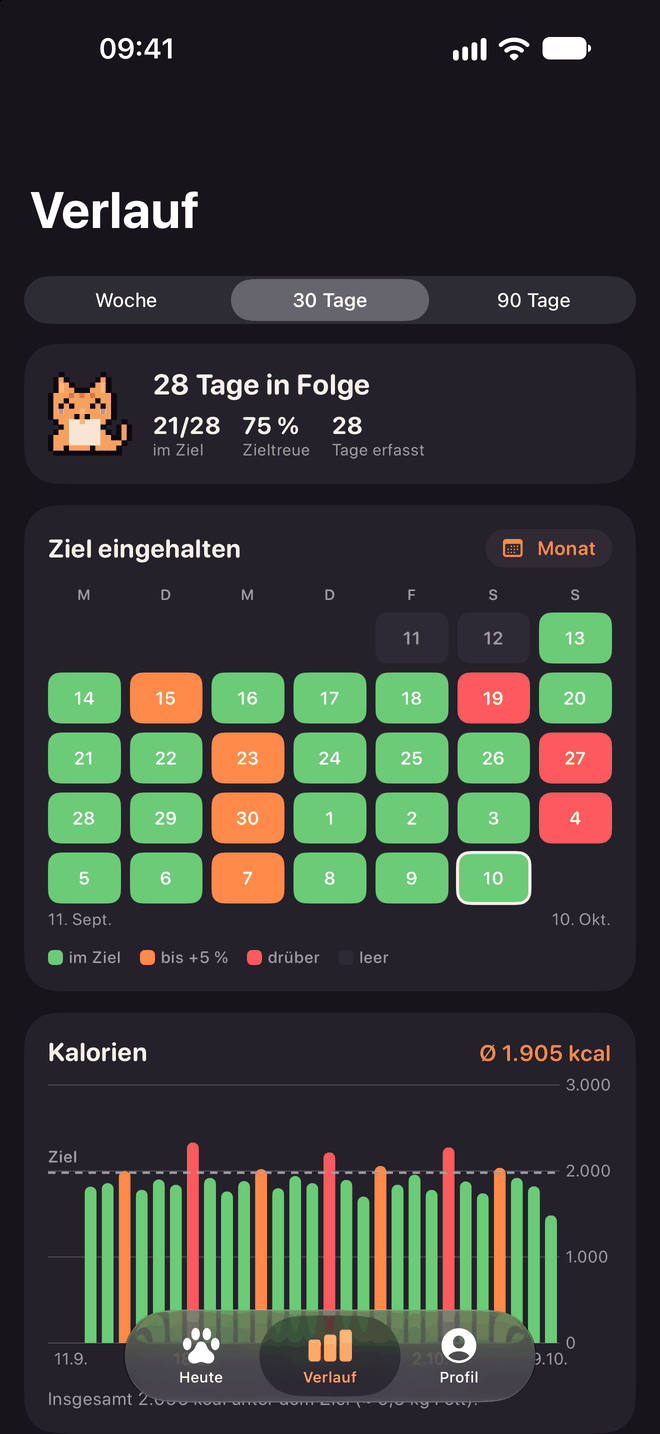
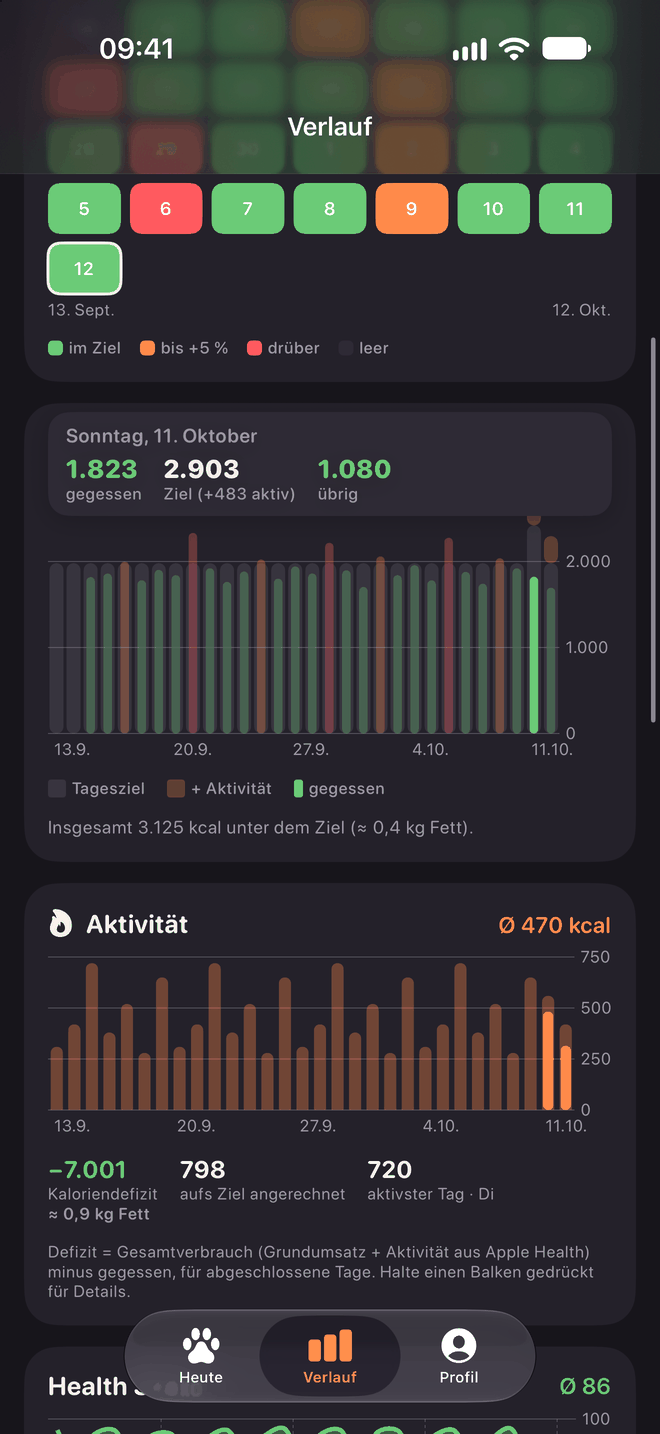
README: new screenshots for 1.4; activity chart always spans the whole range

diff --git a/Purrtion/Views/StatsView.swift b/Purrtion/Views/StatsView.swift
@@ -318,6 +318,8 @@ struct StatsView: View {
                 }
             }
             .chartScrub($scrubActivity, snap: snapDay(past))
+            // Always the whole range on the x axis, also when only a few days have passed.
+            .chartXScale(domain: (all.first?.day ?? .now)...cal.date(byAdding: .day, value: 1, to: all.last?.day ?? .now)!)
             .chartXAxis {
                 AxisMarks(values: .stride(by: .day, count: range == 7 ? 1 : range == 30 ? 7 : 30)) { _ in
                     AxisValueLabel(format: range == 7 ? .dateTime.weekday(.narrow) : .dateTime.day().month(.defaultDigits))

diff --git a/README.md b/README.md
@@ -24,15 +24,15 @@ Keine laufenden Kosten, kein Account, alle Daten bleiben auf dem Gerät.
 <table>
   <tr>
     <td align="center" width="25%"><img src="docs/screenshots/today.png" width="190" alt="Heute"><br><sub><b>Heute</b></sub></td>
-    <td align="center" width="25%"><img src="docs/screenshots/meal.png" width="190" alt="Mahlzeit mit Zutaten"><br><sub><b>Mahlzeiten</b></sub></td>
+    <td align="center" width="25%"><img src="docs/screenshots/meal.png" width="190" alt="Mahlzeiten"><br><sub><b>Mahlzeiten</b></sub></td>
     <td align="center" width="25%"><img src="docs/screenshots/search.png" width="190" alt="Suche"><br><sub><b>Suche</b></sub></td>
-    <td align="center" width="25%"><img src="docs/screenshots/detail.png" width="190" alt="Detailansicht"><br><sub><b>Details</b></sub></td>
+    <td align="center" width="25%"><img src="docs/screenshots/overview.png" width="190" alt="Tagesübersicht"><br><sub><b>Tagesübersicht</b></sub></td>
   </tr>
   <tr>
     <td align="center" width="25%"><img src="docs/screenshots/history.png" width="190" alt="Verlauf"><br><sub><b>Verlauf</b></sub></td>
+    <td align="center" width="25%"><img src="docs/screenshots/share.png" width="190" alt="Teilen"><br><sub><b>Teilen</b></sub></td>
     <td align="center" width="25%"><img src="docs/screenshots/score.png" width="190" alt="Health Score"><br><sub><b>Health Score</b></sub></td>
     <td align="center" width="25%"><img src="docs/screenshots/widget.png" width="190" alt="Widget"><br><sub><b>Widget</b></sub></td>
-    <td align="center" width="25%"><img src="docs/screenshots/splash.png" width="190" alt="Ladebildschirm"><br><sub><b>Ladebildschirm</b></sub></td>
   </tr>
 </table>
 
